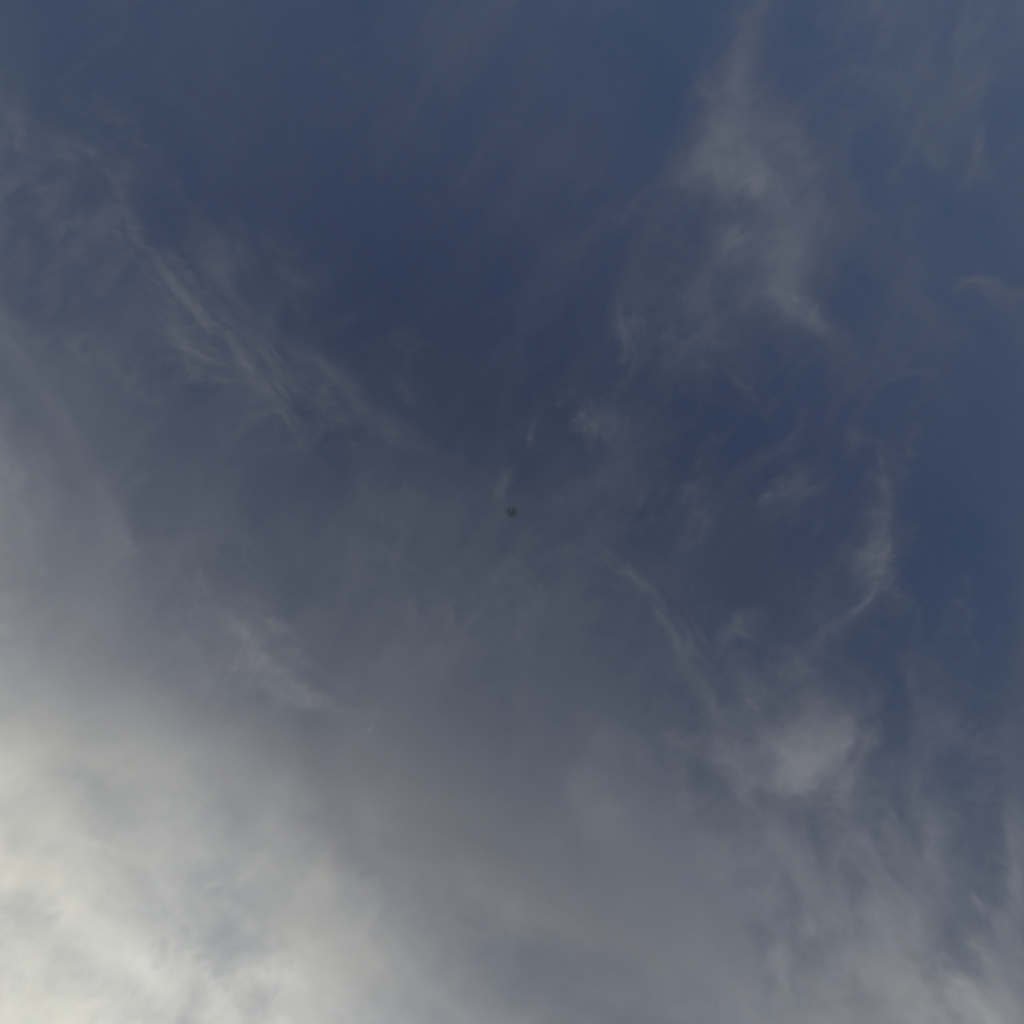
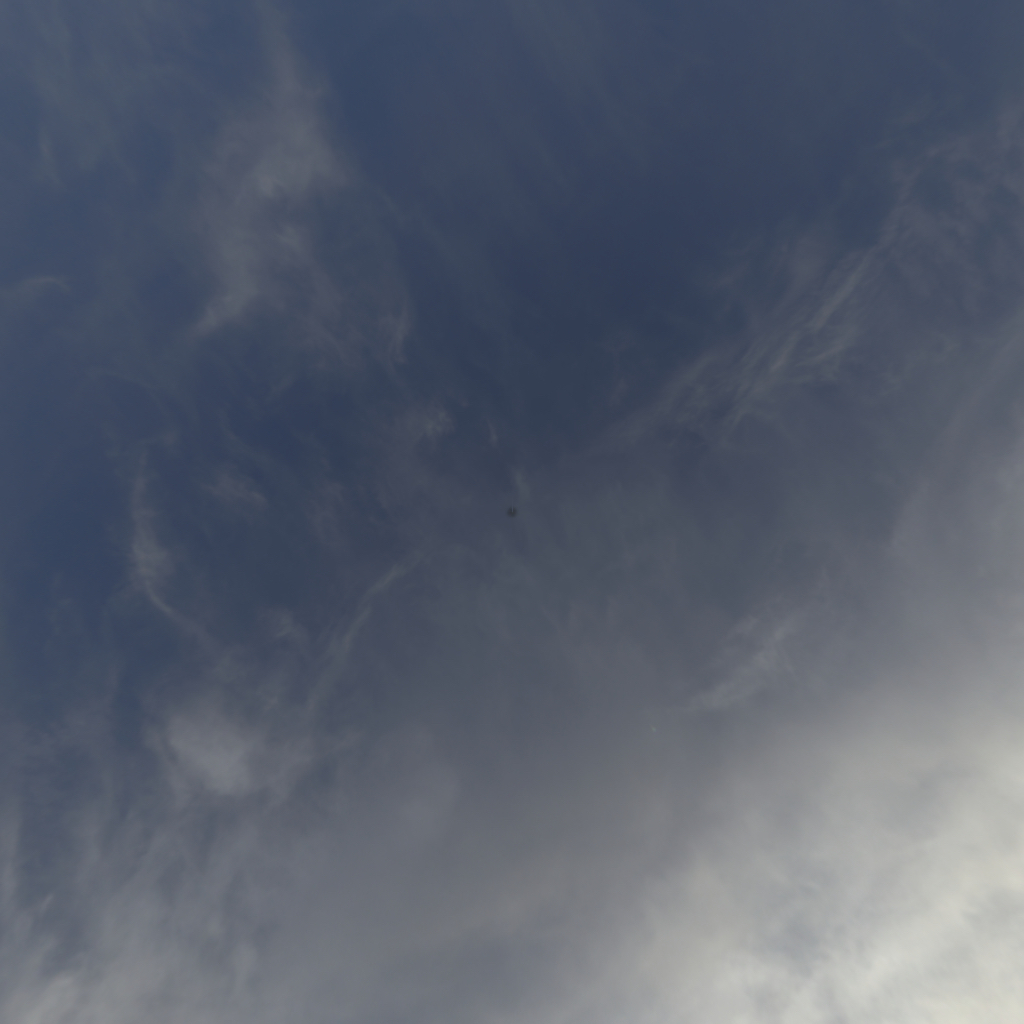
website

diff --git a/projects/lighting/lighting.js b/projects/lighting/lighting.js
@@ -243,12 +243,12 @@ var skyBoxLoader = new THREE.CubeTextureLoader();
 skyBoxLoader.crossOrigin = '';
 skyBoxLoader.setPath('https://al-ro.github.io/images/pbr/');
 var skyBox = skyBoxLoader.load( [
-		'0001.jpg',
-		'0003.jpg',
+		'0004.jpg',
+		'0002.jpg',
 		'0006.jpg',
 		'0005.jpg',
-		'0002.jpg',
-		'0004.jpg'
+		'0001.jpg',
+		'0003.jpg'
 	] );
 scene.background = skyBox;
 
